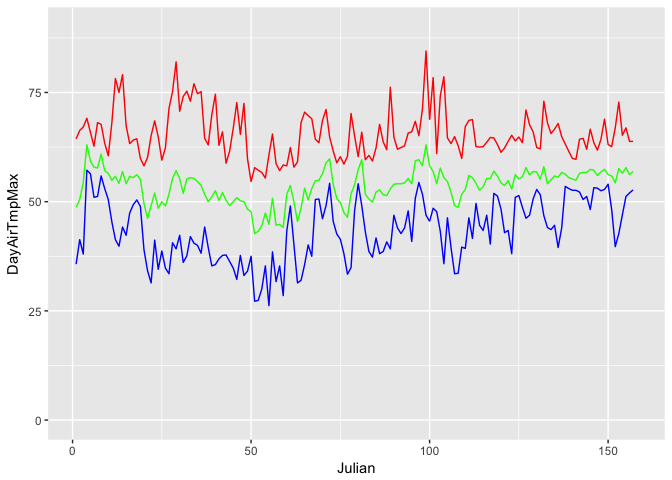
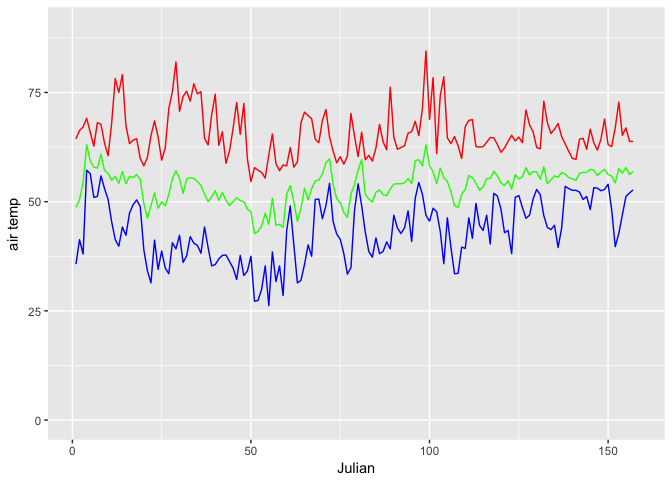
y axis

diff --git a/CIMIS-api.md b/CIMIS-api.md
@@ -57,7 +57,8 @@ ggplot(data = df2.df, aes(x=Julian)) +
   geom_line(aes(y = DayAirTmpMax), colour = "red") +
   geom_line(aes(y = DayAirTmpAvg), colour = "green") +
   geom_line(aes(y = DayAirTmpMin), colour = "blue") +
-  ylim(0,90)
+  ylim(0,90) +
+  labs(y = "air temp")
 ```
 
     ## Warning: Removed 1 rows containing missing values (geom_path).

diff --git a/README.md b/README.md
@@ -57,7 +57,8 @@ ggplot(data = df2.df, aes(x=Julian)) +
   geom_line(aes(y = DayAirTmpMax), colour = "red") +
   geom_line(aes(y = DayAirTmpAvg), colour = "green") +
   geom_line(aes(y = DayAirTmpMin), colour = "blue") +
-  ylim(0,90)
+  ylim(0,90) +
+  labs(y = "air temp")
 ```
 
     ## Warning: Removed 1 rows containing missing values (geom_path).
